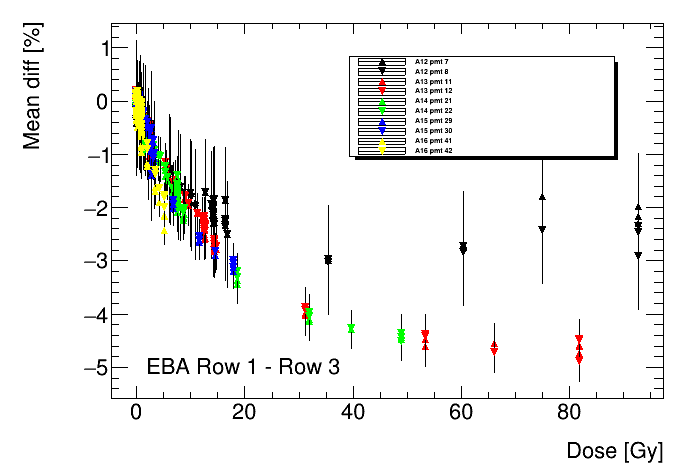
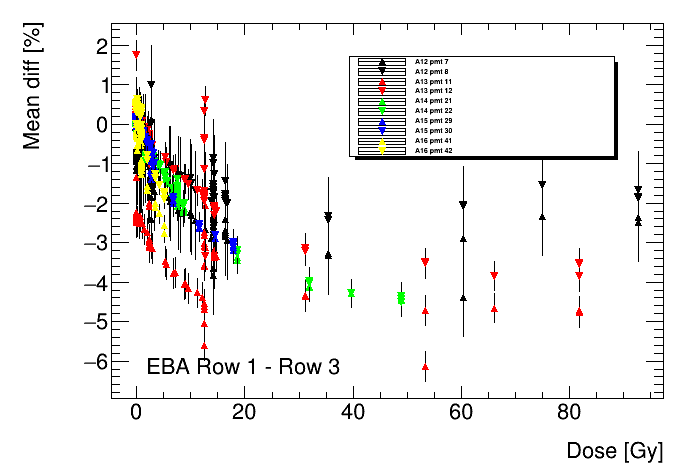
The degradation of scintillators is not purely described by exponent function. Therefore, some test are needed to be made to make sure that our previous steps were ok. Created seperate branch to make tests. Test 1: expanded the borders of the histogram that stores the mean values in showratio.cpp. T

diff --git a/showratio.cpp b/showratio.cpp
@@ -310,7 +310,7 @@ int showratio_row(const char *partition, vector<int> & runs, int row1, int row2,
     stitle.Form("%s PMT %2.2d integrals ratio",partition,ip+1);
     TObject * h1 = gROOT->FindObject(sname);
     if (h1) h1->Delete();
-    hist[ip] = new TH1F(sname, stitle, 400, -20., 20.);
+    hist[ip] = new TH1F(sname, stitle, 400, -100., 400.);
     for(int imod=0; imod<65; imod++){
       if (goodR[imod][ip]) {
         hist[ip]->Fill((int_ratio[imod][ip]-1.)*100.);
